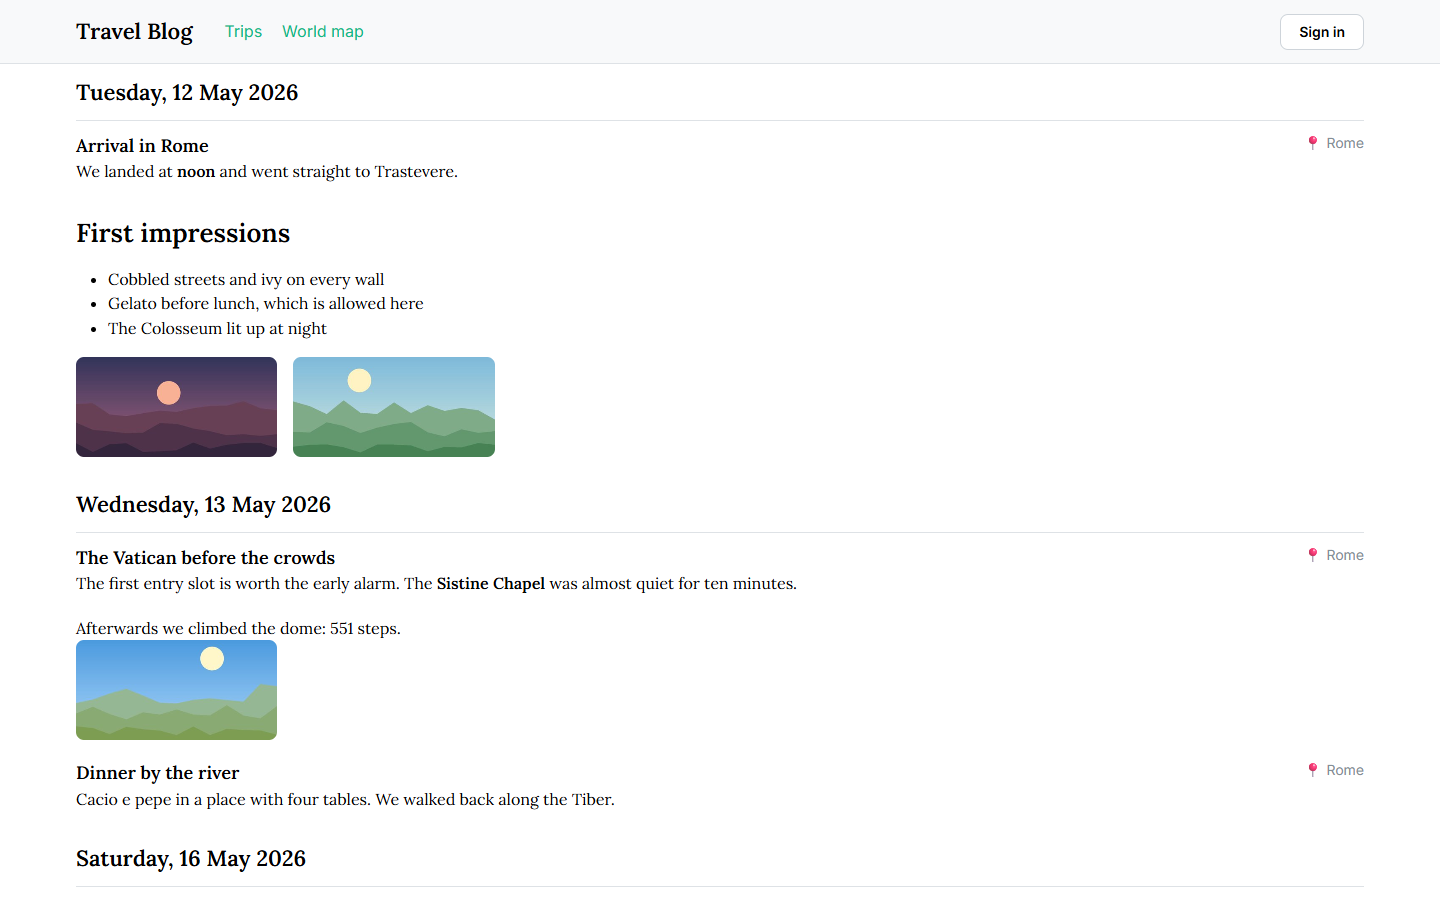
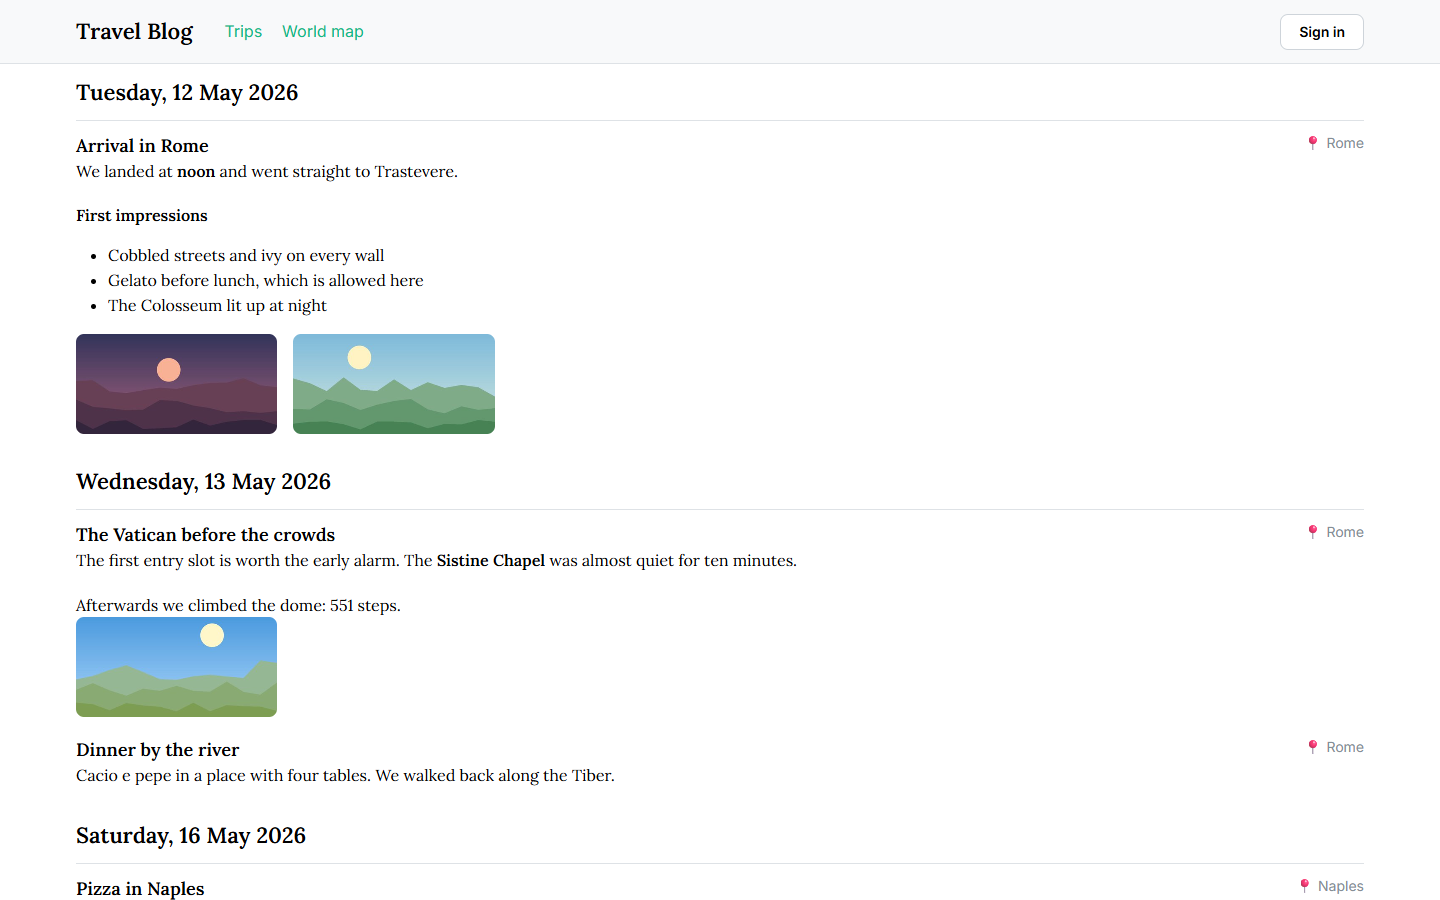
fix(journal): rank markdown headings below the entry title (#65)
* fix(journal): rank markdown headings below the entry title

* docs: retake journal screenshots with the smaller headings

diff --git a/frontend/src/features/journal/Journal.test.tsx b/frontend/src/features/journal/Journal.test.tsx
@@ -96,6 +96,24 @@ test('entries are grouped by day with their Markdown formatted', async () => {
   expect(screen.getByRole('heading', { name: 'Early start' })).toBeInTheDocument();
 });
 
+test('headings in an entry rank below the entry title', async () => {
+  mockApi({
+    'GET /auth/me/': visitor,
+    'GET /trips/7/': trip,
+    [ENTRIES]: [{ ...arrival, body: '# Top\n\n## Early start\n\n### Detail' }],
+  });
+
+  renderRoute('/trips/7/journal');
+
+  // The day is an h3 and the entry title an h4 (wireframe 4).
+  expect(
+    await screen.findByRole('heading', { name: 'Arrival in Rome', level: 4 }),
+  ).toBeInTheDocument();
+  expect(screen.getByRole('heading', { name: 'Top', level: 5 })).toBeInTheDocument();
+  expect(screen.getByRole('heading', { name: 'Early start', level: 5 })).toBeInTheDocument();
+  expect(screen.getByRole('heading', { name: 'Detail', level: 6 })).toBeInTheDocument();
+});
+
 test('raw HTML in an entry is not rendered', async () => {
   mockApi({ 'GET /auth/me/': visitor, 'GET /trips/7/': trip, [ENTRIES]: [vatican] });
 

diff --git a/frontend/src/features/journal/Markdown.tsx b/frontend/src/features/journal/Markdown.tsx
@@ -1,12 +1,18 @@
 import { Typography } from '@mantine/core';
-import ReactMarkdown from 'react-markdown';
+import ReactMarkdown, { type Components } from 'react-markdown';
+
+// The entry title is an h4 under the day's h3, so headings in the text come below it: # and ##
+// as h5, the rest as h6.
+const headings: Components = { h1: 'h5', h2: 'h5', h3: 'h6', h4: 'h6', h5: 'h6' };
 
 /** Journal text in the reading font. Raw HTML in the Markdown is dropped, not rendered
  * (architecture, Stack). */
 export function Markdown({ children }: { children: string }) {
   return (
     <Typography style={{ fontFamily: 'var(--mantine-font-family-headings)' }}>
-      <ReactMarkdown skipHtml>{children}</ReactMarkdown>
+      <ReactMarkdown skipHtml components={headings}>
+        {children}
+      </ReactMarkdown>
     </Typography>
   );
 }

diff --git a/frontend/src/features/journal/EntryModal.tsx b/frontend/src/features/journal/EntryModal.tsx
@@ -165,7 +165,7 @@ function EntryForm({ trip, entry, onClose }: EntryFormProps) {
               Preview
             </Text>
             <Paper withBorder p="md" mih={260} aria-label="Preview">
-              <Title order={3} mb="sm">
+              <Title order={4} mb="sm">
                 {title}
               </Title>
               <Markdown>{body}</Markdown>
